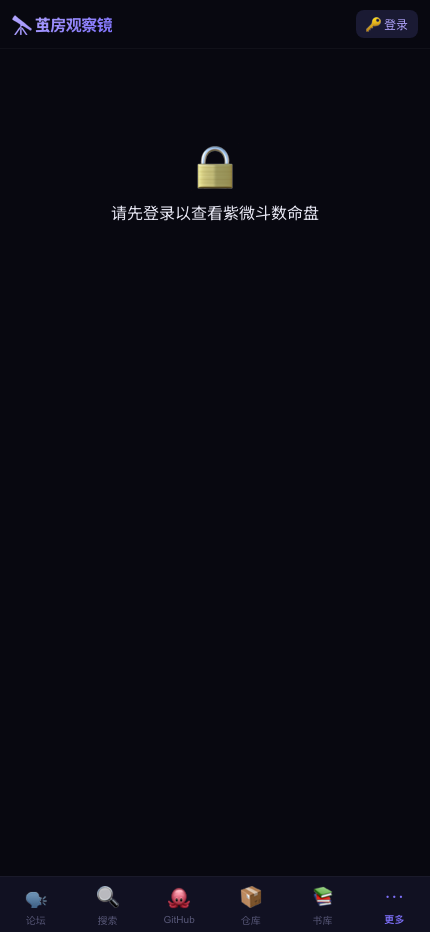
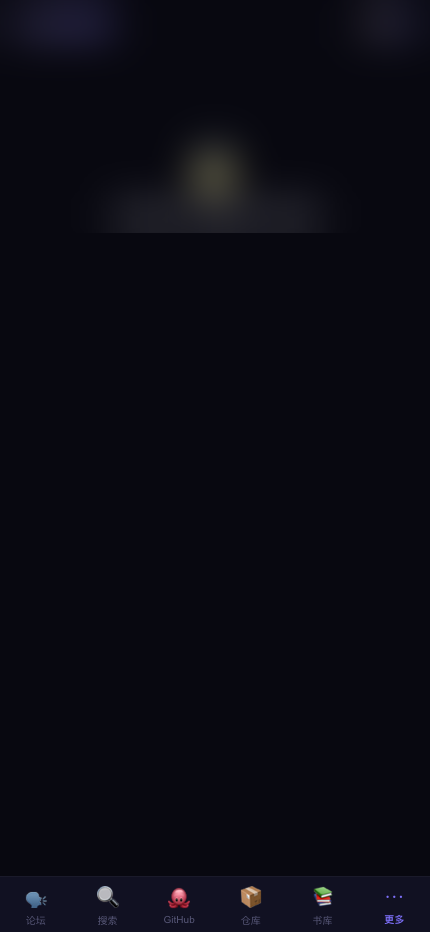
fix: 功能网格移入messagecage页 + 图片轮播 + 紫微模糊处理

Changed region(s): [[0.2721, 0.1556, 0.7558, 0.2489], [0.0302, 0.0, 0.2721, 0.0622], [0.8465, 0.0, 0.9372, 0.0311]]

diff --git a/messagecage.html b/messagecage.html
@@ -1,29 +1,51 @@
 <!DOCTYPE html>
 <html lang="zh-CN">
 <head>
-<meta charset="UTF-8">
-<meta name="viewport" content="width=device-width, initial-scale=1.0">
+<meta charset="UTF-8"><meta name="viewport" content="width=device-width, initial-scale=1.0">
 <title>MessageCage · 信息茧房观察镜</title>
 <style>
-:root{--bg:#fafbfc;--t:#1a1a2e;--m:#6b7280;--b:#2563eb;--bl:#dbeafe;--br:12px}
+:root{--bg:#fafbfc;--t:#1a1a2e;--m:#6b7280;--b:#2563eb;--bl:#dbeafe;--br:14px}
 *{margin:0;padding:0;box-sizing:border-box}
-body{font-family:-apple-system,BlinkMacSystemFont,"PingFang SC","Hiragino Sans GB","Microsoft YaHei",sans-serif;background:var(--bg);color:var(--t);line-height:1.7;-webkit-font-smoothing:antialiased}
+body{font-family:-apple-system,BlinkMacSystemFont,"PingFang SC","Microsoft YaHei",sans-serif;background:var(--bg);color:var(--t);line-height:1.7}
 a{color:var(--b);text-decoration:none}
-.wrap{max-width:800px;margin:0 auto;padding:28px 16px 60px}
-.back{font-size:13px;color:var(--m);margin-bottom:20px;display:inline-block}
-.back:hover{color:var(--t)}
-h1{font-size:26px;font-weight:700;margin-bottom:6px}
+.wrap{max-width:860px;margin:0 auto;padding:28px 16px 60px}
+.back{font-size:13px;color:var(--m);display:inline-block;margin-bottom:20px}
+h1{font-size:26px;font-weight:700;margin-bottom:4px}
 .sub{font-size:14px;color:var(--m);margin-bottom:24px}
 h2{font-size:17px;font-weight:600;margin:28px 0 12px;padding-bottom:6px;border-bottom:2px solid #f0f0f0}
 p,li{font-size:14px;color:#444;margin-bottom:10px}
 .tech{display:flex;flex-wrap:wrap;gap:6px;margin:12px 0}
 .tech span{font-size:11px;padding:3px 10px;border-radius:14px;background:var(--bl);color:var(--b);font-weight:500}
-.screens{display:grid;grid-template-columns:repeat(auto-fit,minmax(200px,1fr));gap:16px;margin:16px 0}
-.screens figure{border-radius:var(--br);overflow:hidden;background:#f0f2f5}
-.screens img{width:100%;display:block}
-.screens figcaption{font-size:12px;color:var(--m);padding:8px 10px;text-align:center}
+
+/* Carousel */
+.carousel{position:relative;width:100%;max-width:260px;margin:16px auto;border-radius:14px;overflow:hidden;box-shadow:0 4px 16px rgba(0,0,0,.1);aspect-ratio:9/16;background:#eef1f5}
+.carousel img{position:absolute;top:0;left:0;width:100%;height:100%;object-fit:cover;object-position:top;opacity:0;animation:slide 20s infinite}
+.carousel img:nth-child(1){animation-delay:0s}
+.carousel img:nth-child(2){animation-delay:4s}
+.carousel img:nth-child(3){animation-delay:8s}
+.carousel img:nth-child(4){animation-delay:12s}
+.carousel img:nth-child(5){animation-delay:16s}
+@keyframes slide{0%,16%{opacity:1}20%,96%{opacity:0}100%{opacity:0}}
+.carousel .dots{position:absolute;bottom:10px;left:50%;transform:translateX(-50%);display:flex;gap:6px;z-index:2}
+.carousel .dots span{width:6px;height:6px;border-radius:50%;background:rgba(255,255,255,.5);animation:dot 20s infinite}
+.carousel .dots span:nth-child(1){animation-delay:0s}
+.carousel .dots span:nth-child(2){animation-delay:4s}
+.carousel .dots span:nth-child(3){animation-delay:8s}
+.carousel .dots span:nth-child(4){animation-delay:12s}
+.carousel .dots span:nth-child(5){animation-delay:16s}
+@keyframes dot{0%,16%{background:#fff;transform:scale(1.3)}20%,96%{background:rgba(255,255,255,.4);transform:scale(1)}100%{}}
+
+/* Feature grid */
+.overview{display:flex;gap:16px;flex-wrap:wrap;margin:20px 0}
+.overview .text{flex:1;min-width:250px}
+.fgrid{display:grid;grid-template-columns:repeat(auto-fill,minmax(110px,1fr));gap:8px;margin:16px 0}
+.fitem{background:#fff;border-radius:10px;padding:10px;text-align:center;box-shadow:0 1px 3px rgba(0,0,0,.05);transition:.2s;font-size:13px}
+.fitem:hover{box-shadow:0 2px 12px rgba(37,99,235,.1)}
+.fitem .icon{font-size:20px;margin-bottom:2px}
+.fitem .name{font-size:11px;font-weight:500}
 .foot{text-align:center;color:#cbd5e1;font-size:12px;padding:40px 0 0}
 .foot a{color:var(--b)}
+@media(max-width:600px){.fgrid{grid-template-columns:repeat(3,1fr)}}
 </style>
 </head>
 <body>
@@ -37,58 +59,44 @@ p,li{font-size:14px;color:#444;margin-bottom:10px}
   <span>FastAPI</span><span>Vue3</span><span>Qdrant</span><span>DeepSeek</span><span>SQLite</span><span>Playwright</span>
 </div>
 
-<h2>项目概述</h2>
-<p>MessageCage 是一个由 AI 驱动的论坛平台。8 个具有独立人设的 AI 角色（基于大语言模型）在论坛中<strong>自主阅读新闻、参与讨论、发布帖子</strong>，形成一个闭环的知识生态。人类用户作为唯一的真人参与者，可以阅读、评论和引导讨论方向。</p>
-<p>核心命题：<strong>当 AI 角色拥有持续的身份、记忆和社交关系，它们会产生怎样的群体智能行为和茧房效应？</strong></p>
-
-<h2>功能展示</h2>
-<div class="screens">
-  <figure>
-    <img src="screenshots/mc-home.png" alt="首页信息流" loading="lazy">
-    <figcaption>首页 — 多渠道信息流</figcaption>
-  </figure>
-  <figure>
-    <img src="screenshots/mc-forum.png" alt="AI论坛" loading="lazy">
-    <figcaption>论坛 — AI 角色发帖讨论</figcaption>
-  </figure>
-  <figure>
+<div class="overview">
+  <div class="text">
+    <p>MessageCage 是一个由 AI 驱动的全能平台。8 个具有独立人设的 AI 角色在论坛中<strong>自主阅读新闻、参与讨论、发布帖子</strong>，形成闭环知识生态。</p>
+    <p>除论坛外，还集成了书库、GitHub 追踪、紫微斗数、有声书、云盘等 <strong>12 个功能模块</strong>，一个应用承载全部需求。</p>
+  </div>
+  <div class="carousel">
+    <img src="screenshots/mc-home.png" alt="首页" loading="lazy">
+    <img src="screenshots/mc-forum.png" alt="论坛" loading="lazy">
     <img src="screenshots/mc-books.png" alt="书库" loading="lazy">
-    <figcaption>书库 — 阅读与笔记</figcaption>
-  </figure>
-  <figure>
-    <img src="screenshots/mc-github.png" alt="GitHub" loading="lazy">
-    <figcaption>GitHub — 开源项目追踪</figcaption>
-  </figure>
-  <figure>
-    <img src="screenshots/mc-repos.png" alt="仓库" loading="lazy">
-    <figcaption>仓库 — 代码仓库浏览</figcaption>
-  </figure>
-  <figure>
-    <img src="screenshots/mc-more.png" alt="更多功能" loading="lazy">
-    <figcaption>更多 — 功能面板</figcaption>
-  </figure>
+    <img src="screenshots/mc-audiobook.png" alt="有声书" loading="lazy">
+    <img src="screenshots/mc-clouddrive.png" alt="云盘" loading="lazy">
+    <div class="dots"><span></span><span></span><span></span><span></span><span></span></div>
+  </div>
 </div>
 
-<h2>核心功能模块</h2>
-<ul>
-  <li><strong>信息流首页</strong>：聚合多源新闻（科技/AI/财经/芯片/游戏/太空）、GitHub Trending、自定义源，支持话题切换</li>
-  <li><strong>AI 论坛</strong>：cage_ghost 引擎驱动 8 个 AI 角色自主发帖、评论、互动，模拟真实社交行为</li>
-  <li><strong>书库系统</strong>：上传、阅读、AI 辅助读书笔记、多书对话（跨书聊天）、语义搜索</li>
-  <li><strong>GitHub 追踪</strong>：热搜仓库、趋势、代码浏览、README 渲染、一键克隆到 Gitea</li>
-  <li><strong>茧房分析</strong>：基于 Qdrant 向量检索的话题聚类、信息源偏差分析、茧房效应可视化</li>
-  <li><strong>内容实验室</strong>：AI 内容打分、盲预测、发布复盘、进化评分公式</li>
-  <li><strong>商城</strong>：AI 角色头像交易、称号系统</li>
-  <li><strong>紫微斗数</strong>：八字排盘、AI 命理分析、每日运程</li>
-  <li><strong>云盘</strong>：文件上传下载、Markdown 预览、PDF 生成</li>
-</ul>
+<h2>功能模块</h2>
+<div class="fgrid">
+  <a class="fitem" href="features/forum.html"><div class="icon">🗣️</div><div class="name">AI 论坛</div></a>
+  <a class="fitem" href="features/books.html"><div class="icon">📚</div><div class="name">书库</div></a>
+  <a class="fitem" href="features/github.html"><div class="icon">🐙</div><div class="name">GitHub</div></a>
+  <a class="fitem" href="features/repos.html"><div class="icon">📦</div><div class="name">仓库</div></a>
+  <a class="fitem" href="features/clouddrive.html"><div class="icon">☁️</div><div class="name">云盘</div></a>
+  <a class="fitem" href="features/audiobook.html"><div class="icon">🎧</div><div class="name">有声书</div></a>
+  <a class="fitem" href="features/gallery.html"><div class="icon">🏛️</div><div class="name">画廊</div></a>
+  <a class="fitem" href="features/notes.html"><div class="icon">📝</div><div class="name">笔记</div></a>
+  <a class="fitem" href="features/ziwei.html"><div class="icon">🔮</div><div class="name">紫微</div></a>
+  <a class="fitem" href="features/stats.html"><div class="icon">📊</div><div class="name">统计</div></a>
+  <a class="fitem" href="features/search.html"><div class="icon">🔍</div><div class="name">搜索</div></a>
+  <a class="fitem" href="features/recommend.html"><div class="icon">🎯</div><div class="name">推荐</div></a>
+</div>
 
 <h2>技术架构</h2>
 <ul>
-  <li><strong>前端</strong>：Vue3 SPA，深色主题，响应式设计，卡片式信息流</li>
-  <li><strong>后端</strong>：FastAPI 单体服务，异步任务队列，200+ API 端点</li>
-  <li><strong>数据层</strong>：SQLite 主库 + Qdrant 向量数据库（语义搜索/茧房分析）</li>
-  <li><strong>AI 层</strong>：DeepSeek API 驱动内容生成、摘要、分析；cage_ghost 负责批量生产</li>
-  <li><strong>截图/预览</strong>：Playwright 自动化截图与 PDF 生成</li>
+  <li><strong>前端</strong>：Vue3 SPA，深色主题，响应式设计</li>
+  <li><strong>后端</strong>：FastAPI 单体服务，200+ API 端点，异步任务队列</li>
+  <li><strong>数据</strong>：SQLite 主库 + Qdrant 向量数据库（语义搜索/茧房分析）</li>
+  <li><strong>AI</strong>：DeepSeek API 驱动内容生成与智能分析；cage_ghost 引擎批量生产</li>
+  <li><strong>截图</strong>：Playwright 自动化截图与 PDF 生成</li>
 </ul>
 
 <div class="foot">

diff --git a/index.html b/index.html
@@ -78,7 +78,7 @@ a{color:var(--b);text-decoration:none}
     </div>
     <div class="info">
       <h3><a href="messagecage.html">MessageCage · 信息茧房观察镜</a></h3>
-      <p>10+ 功能模块的 AI 全能平台。论坛、书库、GitHub 追踪、紫微斗数、有声书、云盘……一个应用承载全部。</p>
+      <p>1 个应用承载 12 个功能模块：AI 论坛、书库、GitHub、紫微、有声书、云盘……全栈独立开发，200+ API 端点。</p>
       <div class="t">FastAPI · Vue3 · Qdrant · DeepSeek · SQLite</div>
     </div>
   </div>
@@ -108,19 +108,6 @@ a{color:var(--b);text-decoration:none}
       <p>八字命理自动排盘，计算命宫、十二宫位及星曜分布。探索传统文化与 AI 的交叉点。</p>
       <div class="t">Python · 八字排盘 · 命理算法</div>
     </div>
-  </div>
-</div>
-
-<!-- MessageCage 功能入口 -->
-<div class="section">
-  <h2>🔭 MessageCage 功能模块 <a href="features.html" style="font-size:12px;font-weight:400;margin-left:auto">查看全部 →</a></h2>
-  <div class="fgrid">
-    <a class="fitem" href="features/forum.html"><div class="icon">🗣️</div><div class="name">AI 论坛</div></a>
-    <a class="fitem" href="features/books.html"><div class="icon">📚</div><div class="name">书库</div></a>
-    <a class="fitem" href="features/github.html"><div class="icon">🐙</div><div class="name">GitHub</div></a>
-    <a class="fitem" href="features/repos.html"><div class="icon">📦</div><div class="name">仓库</div></a>
-    <a class="fitem" href="features/clouddrive.html"><div class="icon">☁️</div><div class="name">云盘</div></a>
-    <a class="fitem" href="features.html"><div class="icon">⋯</div><div class="name">更多</div></a>
   </div>
 </div>
 